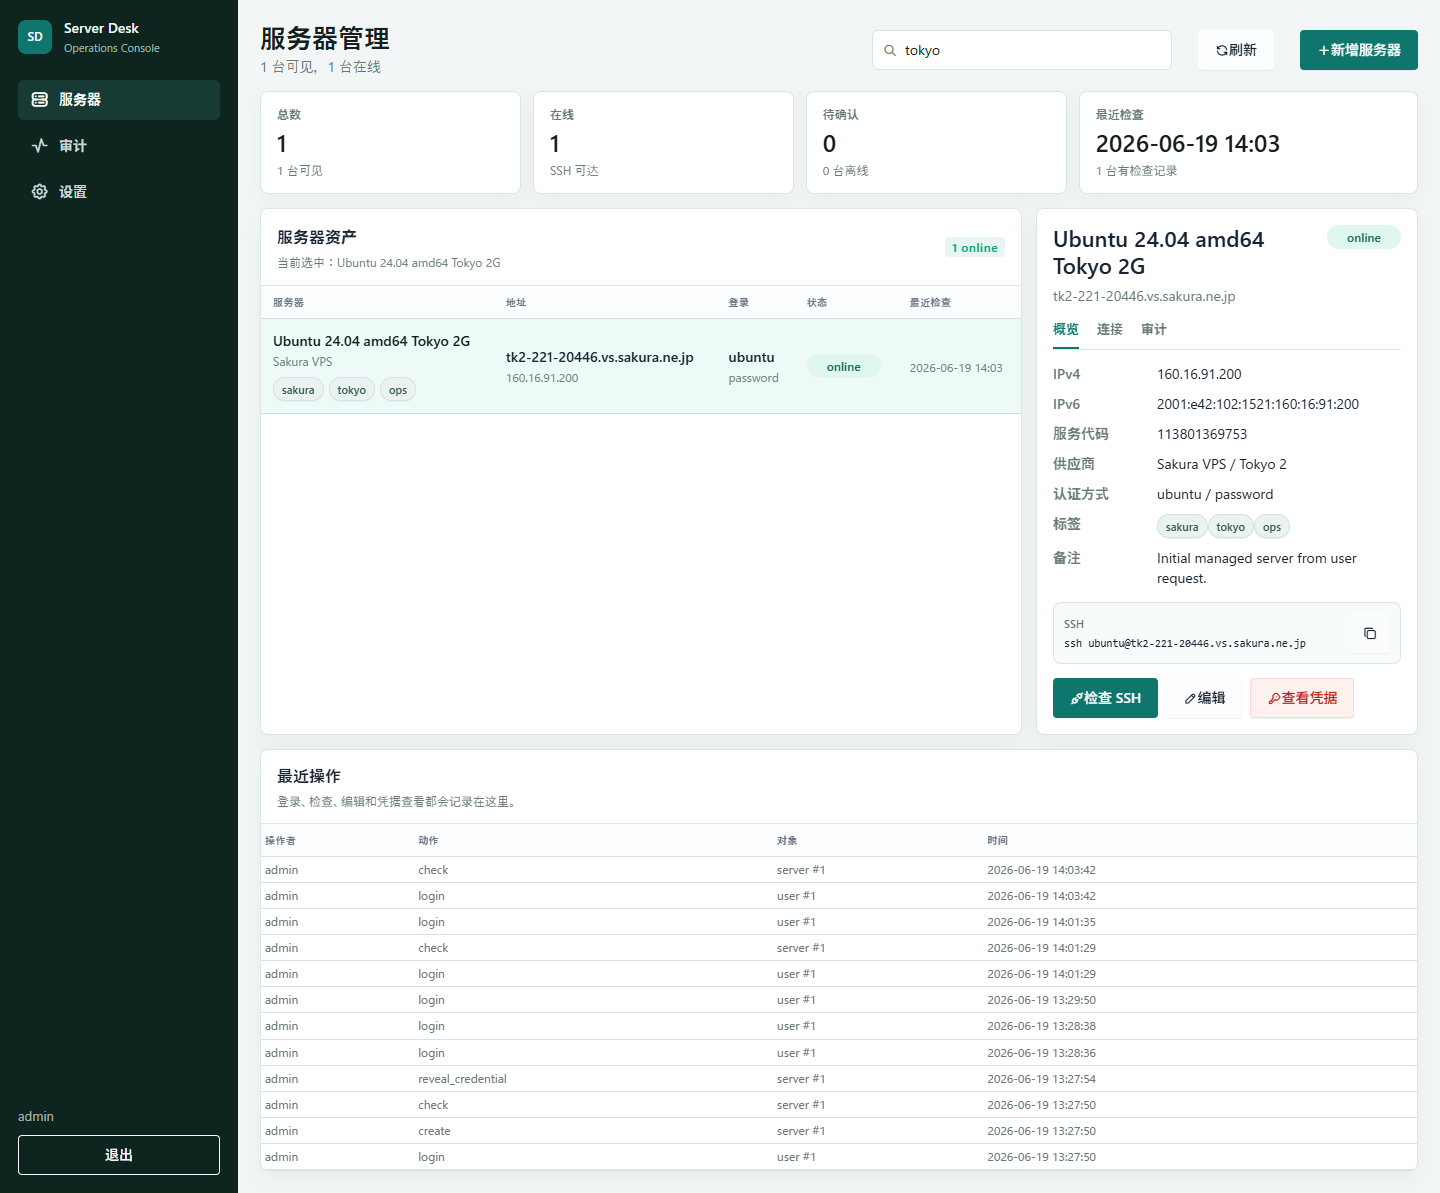
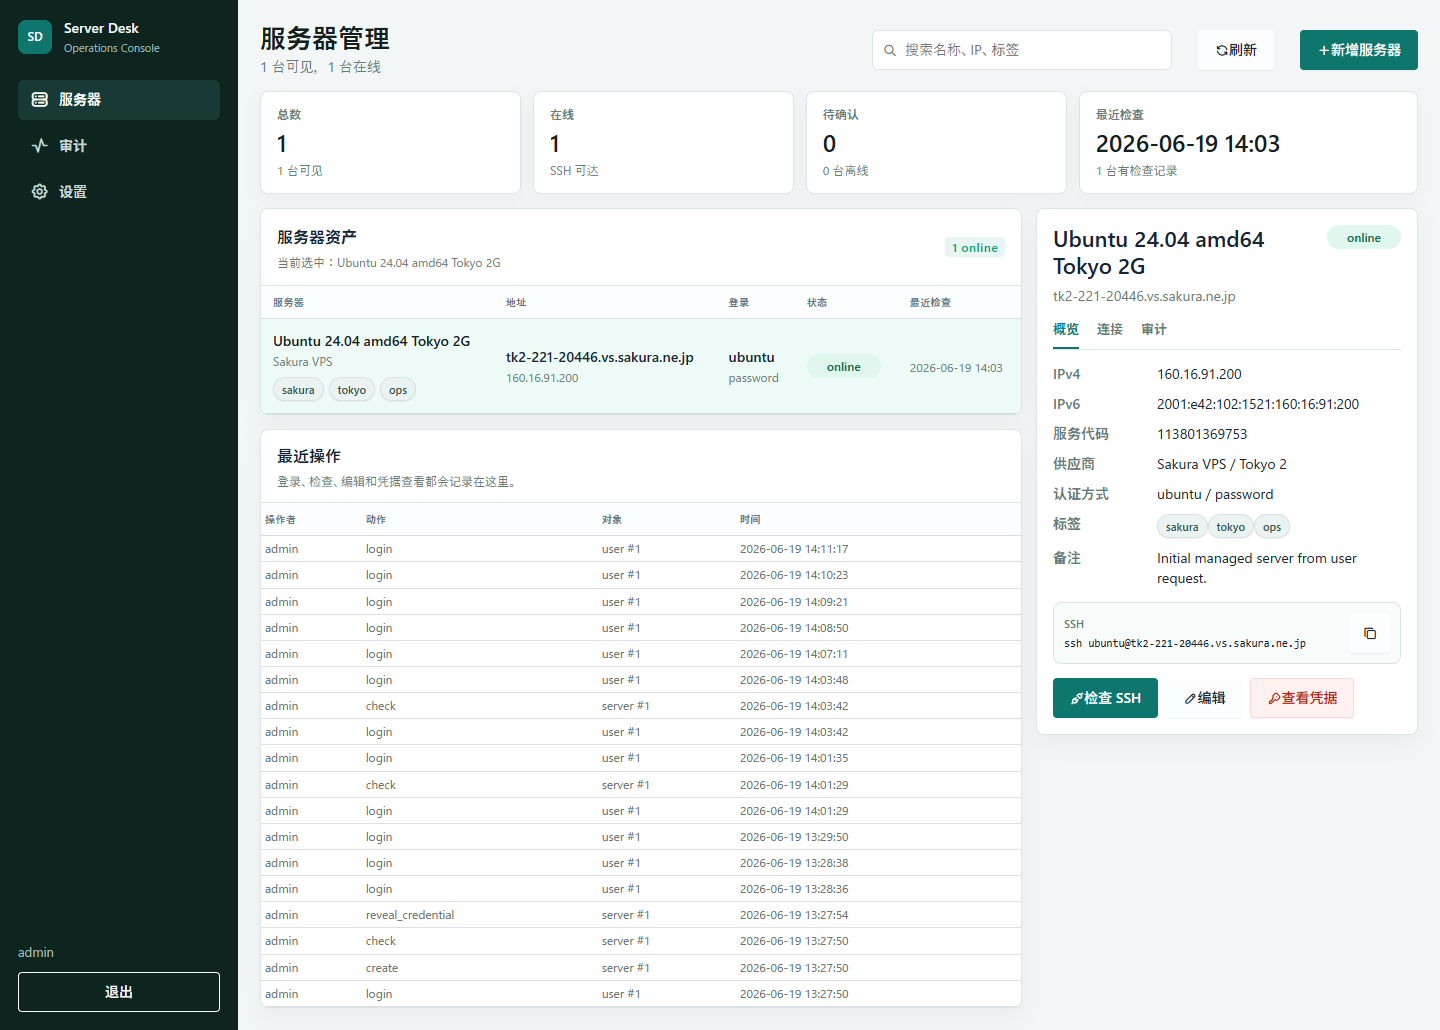
Remove dashboard blank space

diff --git a/app/static/index.html b/app/static/index.html
@@ -84,29 +84,53 @@
         </section>
 
         <section class="main-grid">
-          <section class="server-card card">
-            <div class="section-head">
-              <div>
-                <h2>服务器资产</h2>
-                <p id="summarySelection">选择服务器查看连接与凭据状态</p>
+          <div class="left-column">
+            <section class="server-card card">
+              <div class="section-head">
+                <div>
+                  <h2>服务器资产</h2>
+                  <p id="summarySelection">选择服务器查看连接与凭据状态</p>
+                </div>
+                <span class="badge bg-teal-lt" id="summaryOnlineBadge">0 online</span>
               </div>
-              <span class="badge bg-teal-lt" id="summaryOnlineBadge">0 online</span>
-            </div>
-            <div class="table-responsive">
-              <table class="table table-vcenter ops-table">
-                <thead>
-                  <tr>
-                    <th>服务器</th>
-                    <th>地址</th>
-                    <th>登录</th>
-                    <th>状态</th>
-                    <th>最近检查</th>
-                  </tr>
-                </thead>
-                <tbody id="serverRows"></tbody>
-              </table>
-            </div>
-          </section>
+              <div class="table-responsive">
+                <table class="table table-vcenter ops-table">
+                  <thead>
+                    <tr>
+                      <th>服务器</th>
+                      <th>地址</th>
+                      <th>登录</th>
+                      <th>状态</th>
+                      <th>最近检查</th>
+                    </tr>
+                  </thead>
+                  <tbody id="serverRows"></tbody>
+                </table>
+              </div>
+            </section>
+
+            <section class="audit-panel card">
+              <div class="section-head compact">
+                <div>
+                  <h2>最近操作</h2>
+                  <p>登录、检查、编辑和凭据查看都会记录在这里。</p>
+                </div>
+              </div>
+              <div class="table-responsive">
+                <table class="table table-sm table-vcenter audit-table">
+                  <thead>
+                    <tr>
+                      <th>操作者</th>
+                      <th>动作</th>
+                      <th>对象</th>
+                      <th>时间</th>
+                    </tr>
+                  </thead>
+                  <tbody id="auditRows"></tbody>
+                </table>
+              </div>
+            </section>
+          </div>
 
           <aside class="detail-card card">
             <div id="emptyState" class="empty-state">
@@ -154,28 +178,6 @@
               <div id="credentialBox" class="credential hidden"></div>
             </div>
           </aside>
-        </section>
-
-        <section class="audit-panel card">
-          <div class="section-head compact">
-            <div>
-              <h2>最近操作</h2>
-              <p>登录、检查、编辑和凭据查看都会记录在这里。</p>
-            </div>
-          </div>
-          <div class="table-responsive">
-            <table class="table table-sm table-vcenter audit-table">
-              <thead>
-                <tr>
-                  <th>操作者</th>
-                  <th>动作</th>
-                  <th>对象</th>
-                  <th>时间</th>
-                </tr>
-              </thead>
-              <tbody id="auditRows"></tbody>
-            </table>
-          </div>
         </section>
       </section>
     </main>

diff --git a/app/static/styles.css b/app/static/styles.css
@@ -216,9 +216,14 @@ label {
   margin-top: 6px;
 }
 .main-grid {
+  align-items: start;
   display: grid;
   gap: 14px;
   grid-template-columns: minmax(620px, 1fr) 382px;
+}
+.left-column {
+  display: grid;
+  gap: 14px;
 }
 .card {
   background: var(--panel);
@@ -228,7 +233,6 @@ label {
 }
 .server-card,
 .detail-card {
-  min-height: 390px;
   overflow: hidden;
 }
 .section-head {
@@ -328,7 +332,7 @@ label {
   color: var(--muted);
   display: grid;
   gap: 8px;
-  min-height: 390px;
+  min-height: 220px;
   place-items: center;
   text-align: center;
 }
@@ -471,7 +475,17 @@ dialog::backdrop { background: rgba(10, 20, 18, 0.34); }
   .toolbar { flex-wrap: wrap; }
   .search-wrap { width: 100%; }
   .overview-strip { grid-template-columns: repeat(2, minmax(0, 1fr)); }
-  .main-grid { grid-template-columns: 1fr; }
+  .main-grid {
+    align-items: stretch;
+    display: flex;
+    flex-direction: column;
+  }
+  .left-column {
+    display: contents;
+  }
+  .server-card { order: 1; }
+  .detail-card { order: 2; }
+  .audit-panel { order: 3; }
 }
 @media (max-width: 640px) {
   .ops-workspace { padding: 14px; }